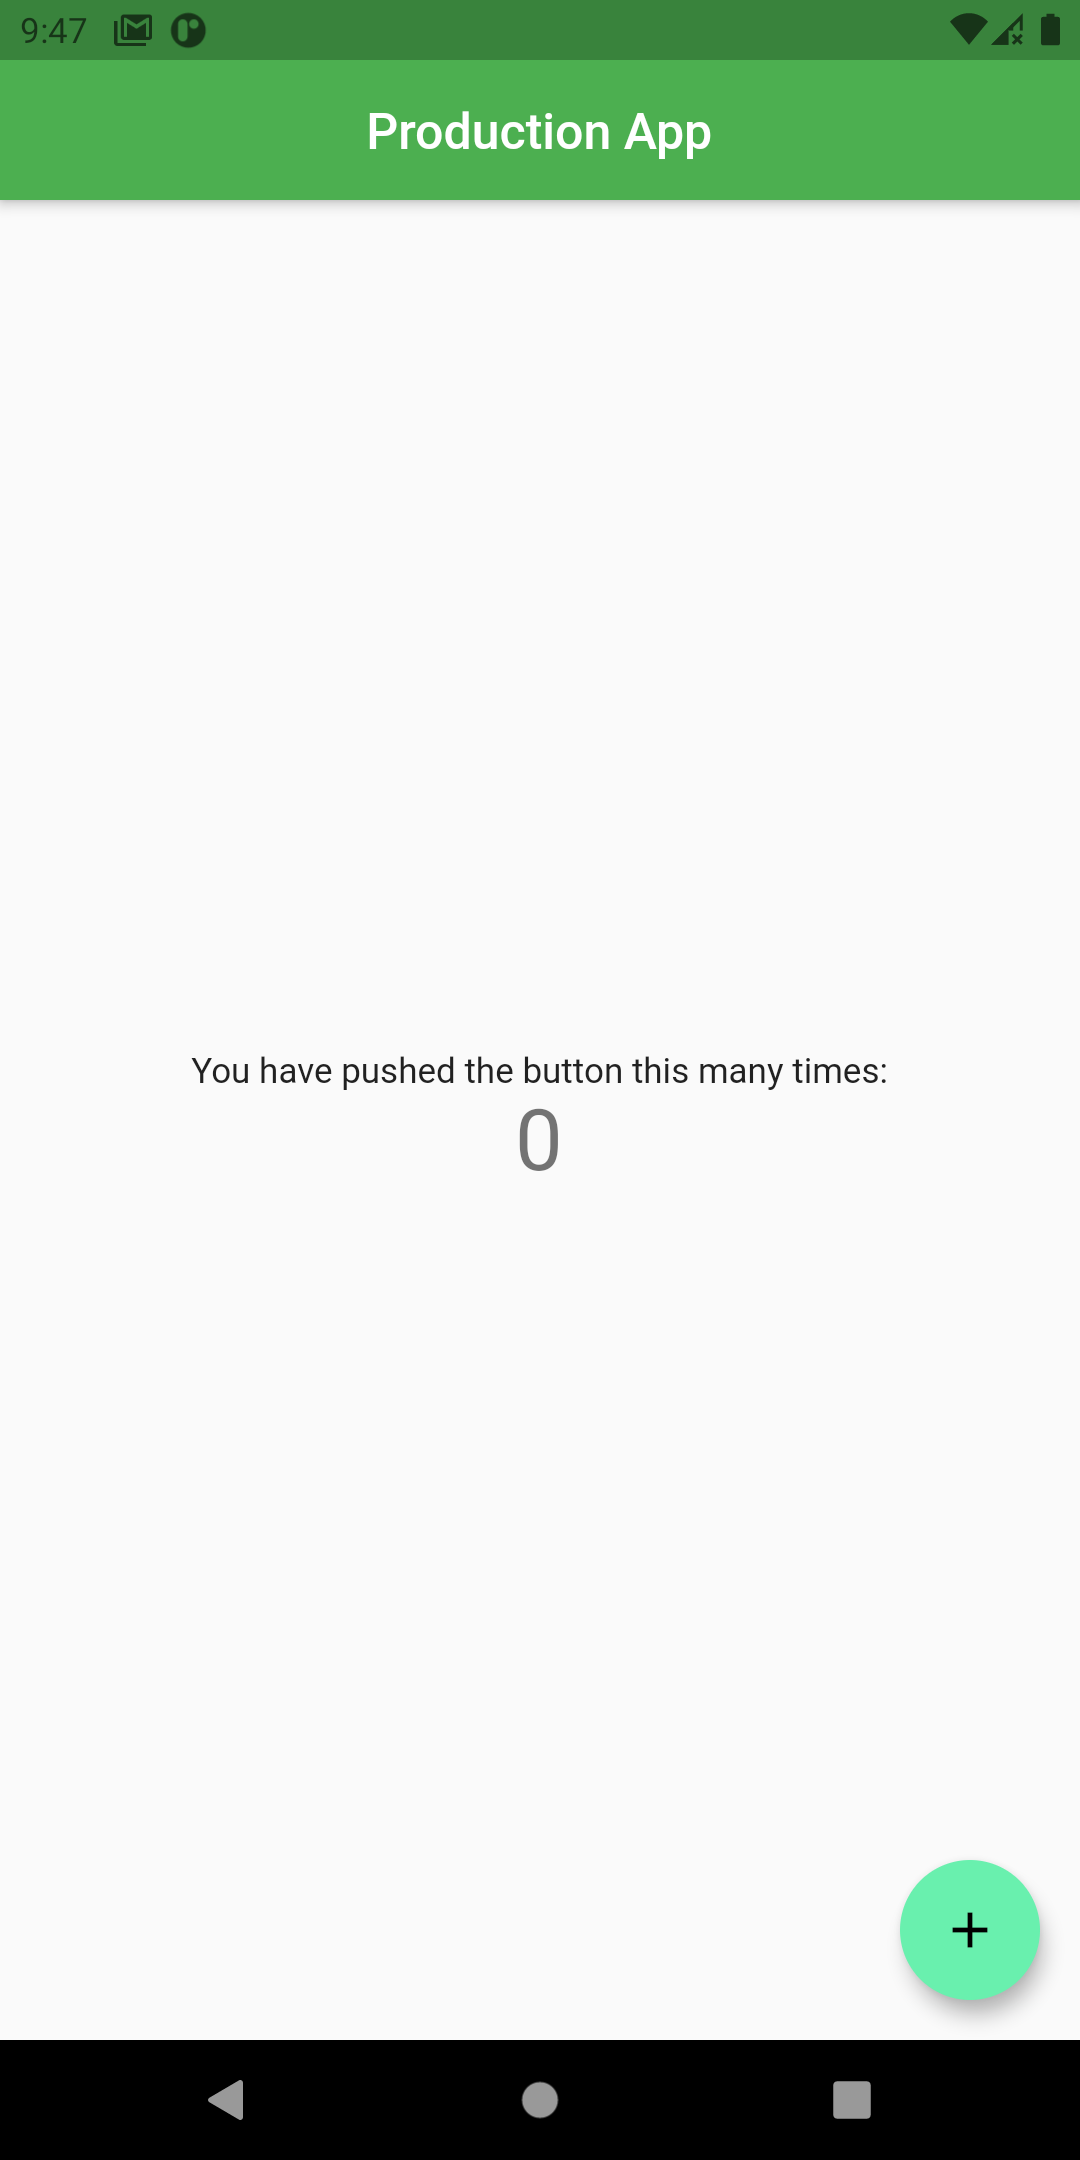
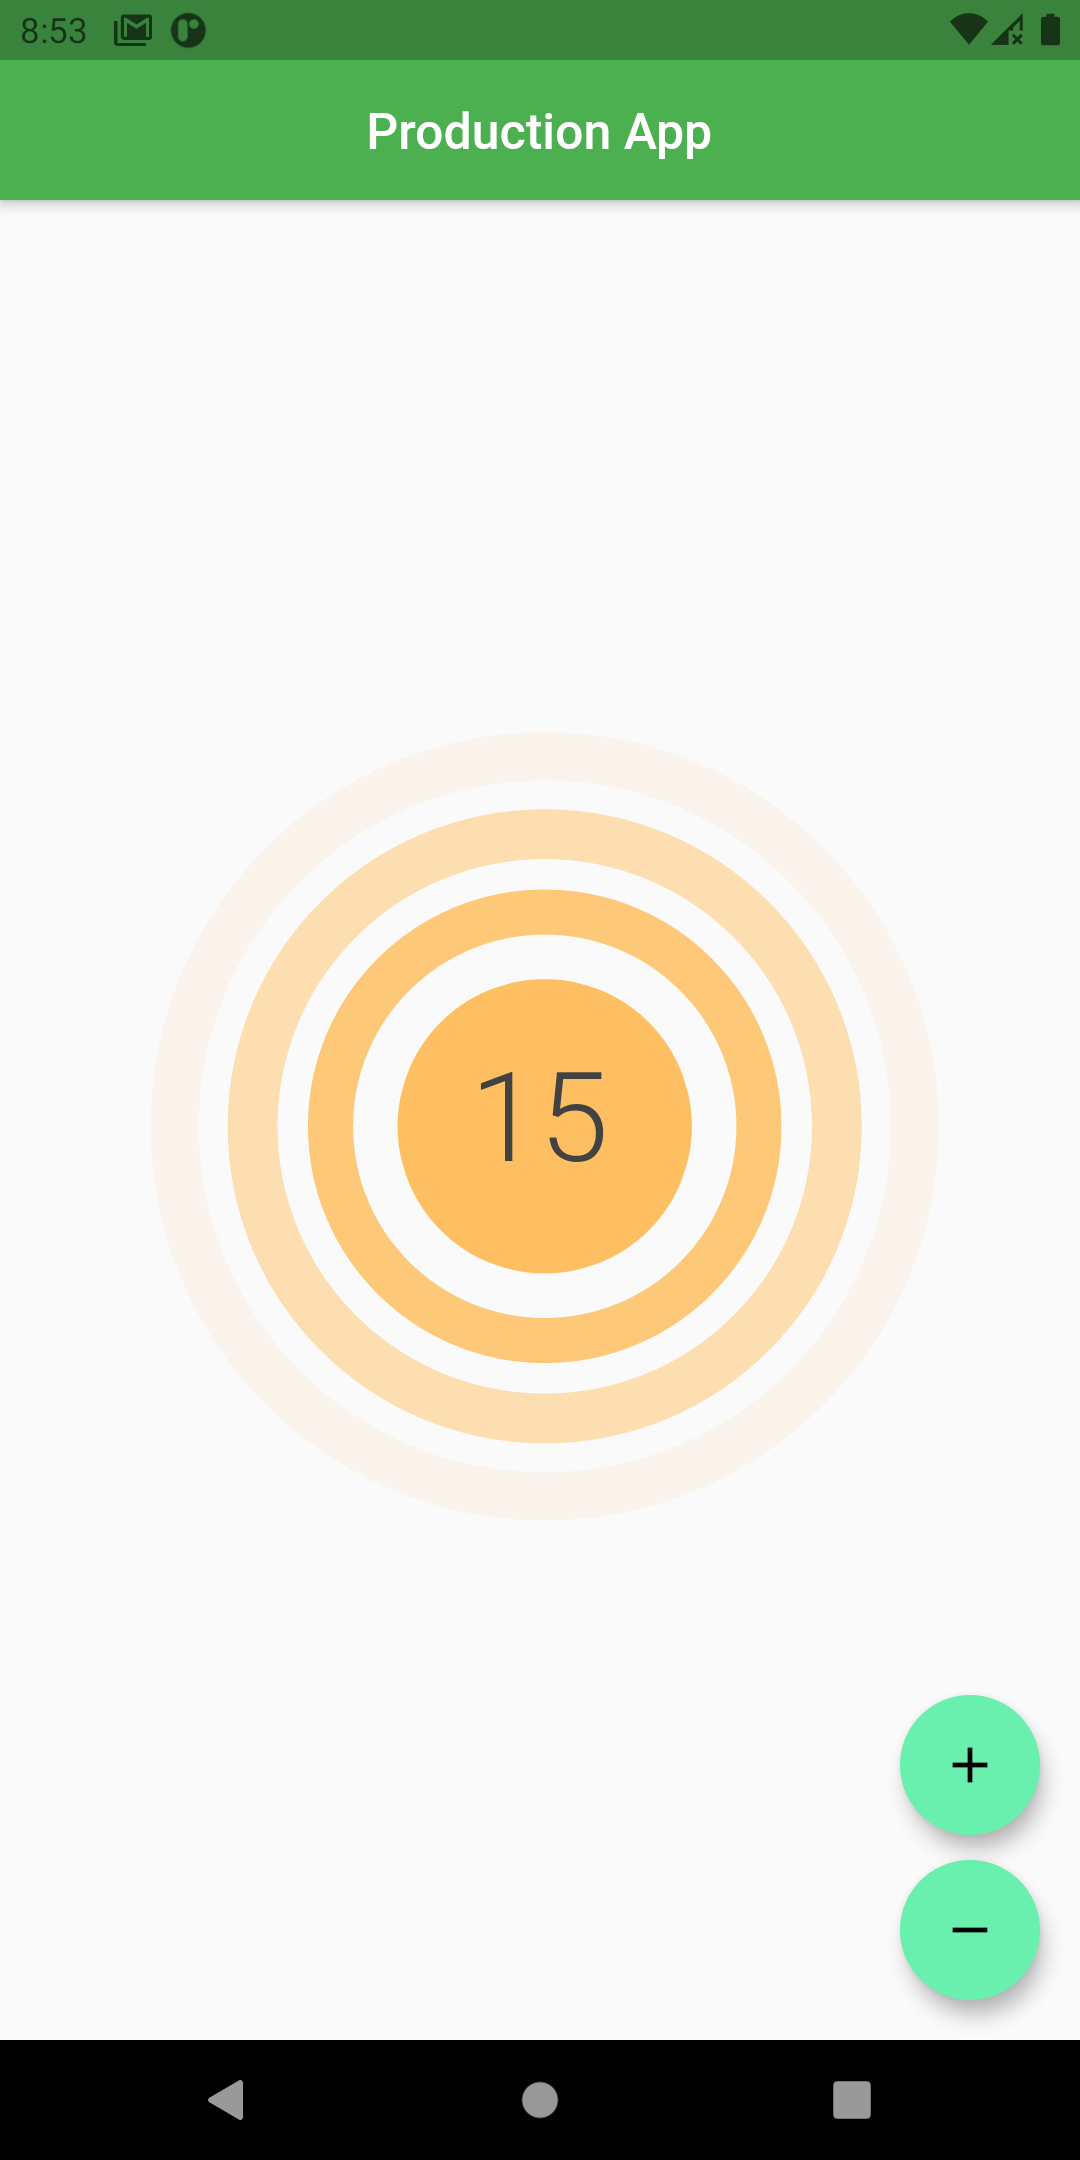
added the iteractive counter app

Changed region(s): [[0.1833, 0.3722, 0.825, 0.6824], [0.825, 0.7755, 0.9778, 0.8685], [0.0306, 0.0, 0.0611, 0.031]]

diff --git a/flutter_flavors_with_provider/lib/features/counter/counter-screen/counterscreen.dart b/flutter_flavors_with_provider/lib/features/counter/counter-screen/counterscreen.dart
@@ -1,0 +1,47 @@
+import 'package:flutter/material.dart';
+import 'package:flutter_riverpod/flavors.dart';
+import 'package:flutter_riverpod/utils/getTitle.dart';
+import '../providers/counter.dart';
+import '../widgets/counter-widget.dart';
+import 'package:provider/provider.dart';
+
+class CounterScreen extends StatelessWidget {
+  @override
+  Widget build(BuildContext context) {
+    final value = Provider.of<Counter>(context, listen: false);
+    final env = Provider.of<Flavor>(context);
+    return Scaffold(
+      appBar: AppBar(
+        title: Text(getTitle(env)),
+        centerTitle: true,
+      ),
+      floatingActionButton: Column(
+        mainAxisAlignment: MainAxisAlignment.end,
+        children: [
+          FloatingActionButton(
+            heroTag: 'increment',
+            onPressed: () =>
+                Provider.of<Counter>(context, listen: false).increment(),
+            child: Icon(Icons.add),
+          ),
+          SizedBox(
+            height: 10,
+          ),
+          FloatingActionButton(
+            heroTag: 'decrement',
+            onPressed: () =>
+                Provider.of<Counter>(context, listen: false).decrement(),
+            child: Icon(Icons.remove),
+          ),
+        ],
+      ),
+      body: Center(
+        child: Consumer<Counter>(
+          builder: (context, counter, child) => CounterWidget(
+            value: value.value,
+          ),
+        ),
+      ),
+    );
+  }
+}

diff --git a/flutter_flavors_with_provider/lib/my-app.dart b/flutter_flavors_with_provider/lib/my-app.dart
@@ -1,18 +1,22 @@
 import 'package:flutter/material.dart';
-import 'package:flutter_riverpod/flavors.dart';
-import 'package:flutter_riverpod/screens/home-screen.dart';
-import 'package:flutter_riverpod/utils/get-theme-as-per-flavor.dart';
+import 'features/counter/counter-screen/counterscreen.dart';
+import 'features/counter/providers/counter.dart';
+import 'flavors.dart';
+import 'utils/get-theme-as-per-flavor.dart';
 import 'package:provider/provider.dart';
 
 class MyApp extends StatelessWidget {
   @override
   Widget build(BuildContext context) {
     final flavor = Provider.of<Flavor>(context);
-    return MaterialApp(
-      debugShowCheckedModeBanner: false,
-      title: 'Flutter Demo',
-      theme: getThemeAsPerEnv(flavor),
-      home: MyHomePage(title: 'Flutter Demo Home Page'),
+    return ChangeNotifierProvider<Counter>(
+      create: (context) => Counter(),
+      child: MaterialApp(
+        debugShowCheckedModeBanner: false,
+        title: 'Flutter Demo',
+        theme: getThemeAsPerEnv(flavor),
+        home: CounterScreen(),
+      ),
     );
   }
 }

diff --git a/flutter_flavors_with_provider/lib/features/counter/widgets/counter-widget.dart b/flutter_flavors_with_provider/lib/features/counter/widgets/counter-widget.dart
@@ -1,0 +1,35 @@
+import 'package:flutter/cupertino.dart';
+import 'package:flutter/material.dart';
+import 'package:lottie/lottie.dart';
+
+class CounterWidget extends StatelessWidget {
+  final int value;
+  const CounterWidget({
+    Key key,
+    @required this.value,
+  }) : super(key: key);
+  @override
+  Widget build(BuildContext context) {
+    return Stack(
+      children: [
+        Align(
+          alignment: Alignment.center,
+          child: Lottie.network(
+            'https://assets8.lottiefiles.com/packages/lf20_z3yWym.json',
+          ),
+        ),
+        Align(
+          alignment: Alignment.center,
+          child: Text(
+            value.toString(),
+            style: TextStyle(
+              fontWeight: FontWeight.w300,
+              fontSize: 50,
+              color: Colors.grey[800],
+            ),
+          ),
+        ),
+      ],
+    );
+  }
+}

diff --git a/flutter_flavors_with_provider/lib/utils/get-theme-as-per-flavor.dart b/flutter_flavors_with_provider/lib/utils/get-theme-as-per-flavor.dart
@@ -1,6 +1,6 @@
 import 'package:flutter/material.dart';
-import 'package:flutter_riverpod/flavors.dart';
-import 'package:flutter_riverpod/utils/themes.dart';
+import '../flavors.dart';
+import 'themes.dart';
 
 ThemeData getThemeAsPerEnv(Flavor flavor) {
   switch (flavor) {

diff --git a/flutter_flavors_with_provider/lib/main.dart b/flutter_flavors_with_provider/lib/main.dart
@@ -1,6 +1,6 @@
 import 'package:flutter/material.dart';
-import 'package:flutter_riverpod/flavors.dart';
-import 'package:flutter_riverpod/my-app.dart';
+import 'flavors.dart';
+import 'my-app.dart';
 import 'package:provider/provider.dart';
 
 void main() {

diff --git a/flutter_flavors_with_provider/lib/main_dev.dart b/flutter_flavors_with_provider/lib/main_dev.dart
@@ -1,6 +1,6 @@
 import 'package:flutter/material.dart';
-import 'package:flutter_riverpod/flavors.dart';
-import 'package:flutter_riverpod/my-app.dart';
+import 'flavors.dart';
+import 'my-app.dart';
 import 'package:provider/provider.dart';
 
 void main() {

diff --git a/flutter_flavors_with_provider/lib/main_staging.dart b/flutter_flavors_with_provider/lib/main_staging.dart
@@ -1,6 +1,6 @@
 import 'package:flutter/material.dart';
-import 'package:flutter_riverpod/flavors.dart';
-import 'package:flutter_riverpod/my-app.dart';
+import 'flavors.dart';
+import 'my-app.dart';
 import 'package:provider/provider.dart';
 
 void main() {

diff --git a/flutter_flavors_with_provider/lib/features/counter/providers/counter.dart b/flutter_flavors_with_provider/lib/features/counter/providers/counter.dart
@@ -1,0 +1,15 @@
+import 'package:flutter/cupertino.dart';
+
+class Counter with ChangeNotifier {
+  int value = 0;
+
+  void increment() {
+    value++;
+    notifyListeners();
+  }
+
+  void decrement() {
+    value--;
+    notifyListeners();
+  }
+}

diff --git a/flutter_flavors_with_provider/lib/utils/getTitle.dart b/flutter_flavors_with_provider/lib/utils/getTitle.dart
@@ -1,4 +1,4 @@
-import 'package:flutter_riverpod/flavors.dart';
+import '../flavors.dart';
 
 String getTitle(Flavor flavor) {
   switch (flavor) {
